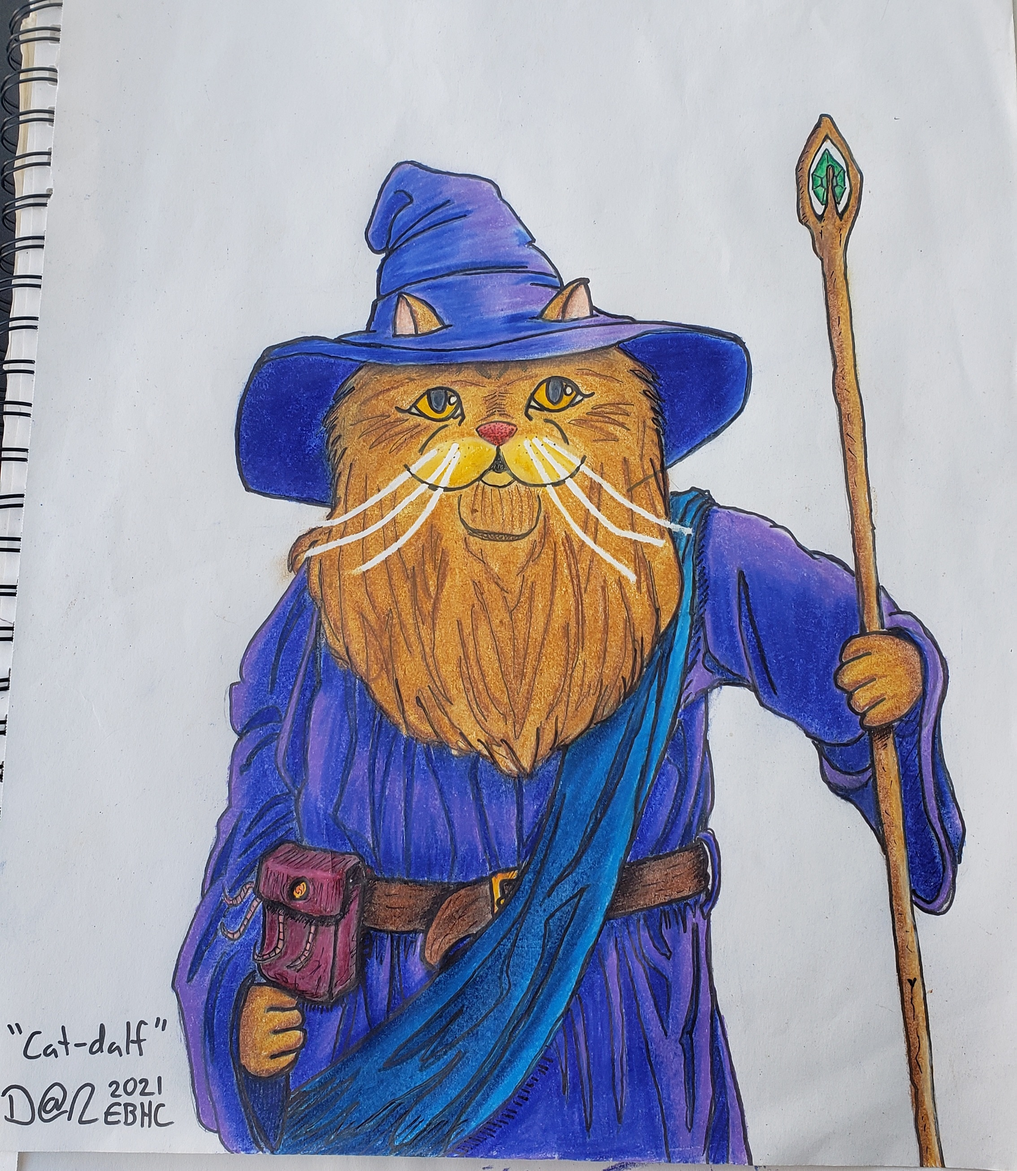
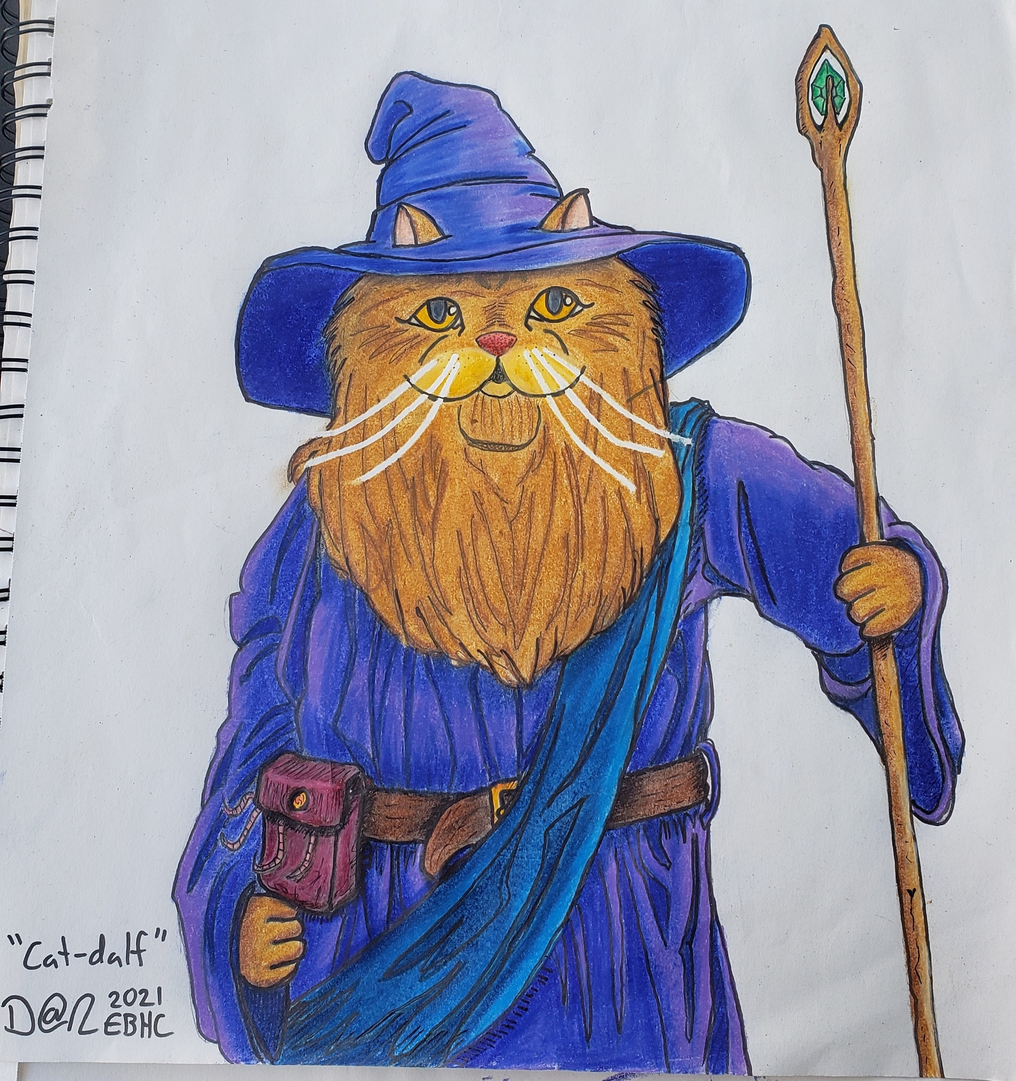
Feature: Added modal to allow fullscren viewing of pictures. Also cleaned up styling/display of photos.

diff --git a/script.js b/script.js
@@ -9,6 +9,7 @@ let parent = document.getElementById("image-preview");
 for(i = 1; i <= numberOfPicturesInFolder; i++){
    let newImg = document.createElement('img');
    newImg.src = "./images-50/" + i + ".jpg";
+   newImg.name = i + ".jpg";
    parent.appendChild(newImg);
 }
 
@@ -40,8 +41,8 @@ document.querySelectorAll("#image-preview img").forEach(
 
 
 function sidebarChildClick(e){
-    document.getElementById("gallery").classList.toggle("hidden");
-    document.getElementById("contact-page").classList.toggle("hidden");
+    document.getElementById("gallery-container").hidden = false;
+    document.getElementById("contact-page-container").hidden = true;
 
     e.target.classList.add("selected");
     document.querySelectorAll("#sidebar :not(:first-child)").forEach((t)=>{
@@ -51,12 +52,32 @@ function sidebarChildClick(e){
     })
 
     if (e.target.id==="contact-button") {
-        console.log("contact button triggered");
-         document.getElementById("gallery").classList.add = "hidden";
-         document.getElementById("contact-page").classList.remove = "hidden";
+        document.getElementById("gallery-container").hidden = true;
+        document.getElementById("contact-page-container").hidden = false;
     }
 }
 
 document.querySelectorAll("#sidebar :not(:first-child)").forEach((e)=>{
     e.addEventListener("click", sidebarChildClick)
+})
+
+function showFullsize(e){
+    const modal = document.createElement('div');
+    modal.id = "fullsize-modal";
+
+    const img = document.createElement('img');
+    img.id = "fullsize-img";
+    img.src = "./images/" + e.target.name;
+
+    const closeButton = document.createElement('p');
+    closeButton.innerHTML = "X"
+    closeButton.addEventListener("click", ()=>{document.getElementById("fullsize-modal").remove()})
+
+    modal.appendChild(closeButton);
+    modal.appendChild(img);
+    document.getElementById("container").appendChild(modal);
+}
+
+document.querySelectorAll("#image-preview img").forEach(e => {
+    e.addEventListener("click", showFullsize);
 })

diff --git a/index.html b/index.html
@@ -8,12 +8,26 @@
       <div id="sidebar">
         <p>D<span>a</span>n Grimsh<span>a</span>w</p>
 
-        <a href="./index.html"id="gallery-button">Gallery</a>
-        <a href="./contact.html" id="contact-button">Contact</a>
+        <p id="gallery-button">Gallery</p>
+        <p id="contact-button">Contact</p>
       </div>
-      <div id="gallery">
-        <div id="image-preview"></div>
-        <img id="main-image" src="./images/1.jpg" />
+      <!-- cannot put styles on any container or 'hidden' will not work -->
+      <div id="gallery-container">
+        <div id="gallery">
+          <div id="image-preview"></div>
+          <img id="main-image" src="./images-50/1.jpg" />
+        </div>
+      </div>
+      <div id="contact-page-container" hidden>
+        <div id="contact-page">
+          <img id="contact-photo" src="artist-photo.jpg" />
+          <p>
+            Dan Grimshaw is an artist working out of the Nevada City area in
+            California.
+          </p>
+          <p>Instagram: @punkisdad40</p>
+          <p>Email: twostars30@yahoo.com</p>
+        </div>
       </div>
     </div>
   </body>

diff --git a/styles.css b/styles.css
@@ -47,8 +47,8 @@ html, body {
   #main-image{
     height: 100vh;
     width: 100%;
-    object-fit: cover;
-    object-position: top;
+    object-fit: scale-down;
+    object-position: center;
   }
 
   #gallery{
@@ -62,9 +62,6 @@ html, body {
   #container{
     position: absolute;
   } 
-  
-  #sidebar {
-  }
 
   #contact-page{
     position: absolute;
@@ -110,7 +107,6 @@ html, body {
 }
 
 #contact-page {
-/*   position: relative; */
   font-family: arial;
   font-variant: small-caps;
 }
@@ -166,6 +162,9 @@ html, body {
     height: 10vw;
     width: 10vh;
   }
+
+  #fullsize-modal {
+  }
 }
 
 #contact-page img {
@@ -178,4 +177,27 @@ html, body {
 
 span {
   color: #b70000;
+}
+
+#fullsize-modal{
+  position: absolute;
+  background: #00000073;
+  font-family: sans-serif;
+  min-width: 100%;
+  min-height: 100%;
+  display: grid;
+  place-content: center;
+}
+
+
+#fullsize-modal p{
+  font-family: sans-serif;
+  position: absolute;
+  font-size: 500%;
+  color: white;
+  background: grey;
+  margin: 2vw;
+  padding: 1vh;
+  border: solid 1vw;
+  opacity: 0.7
 }
